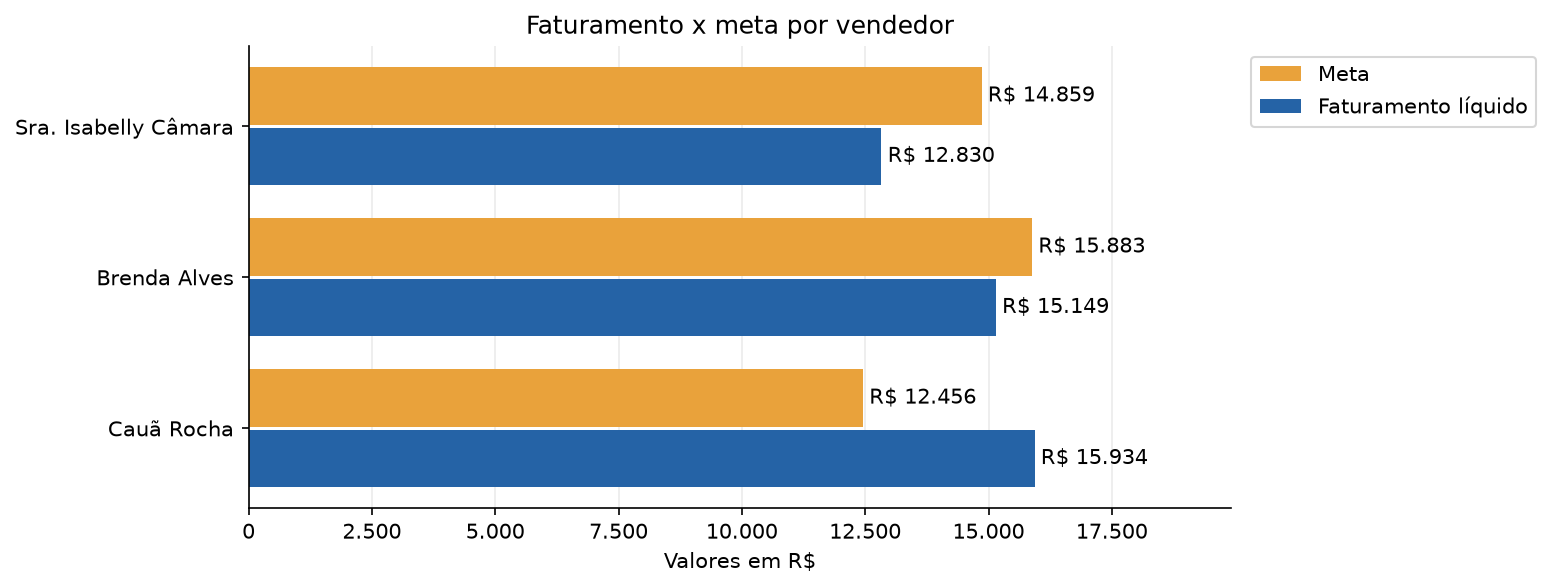
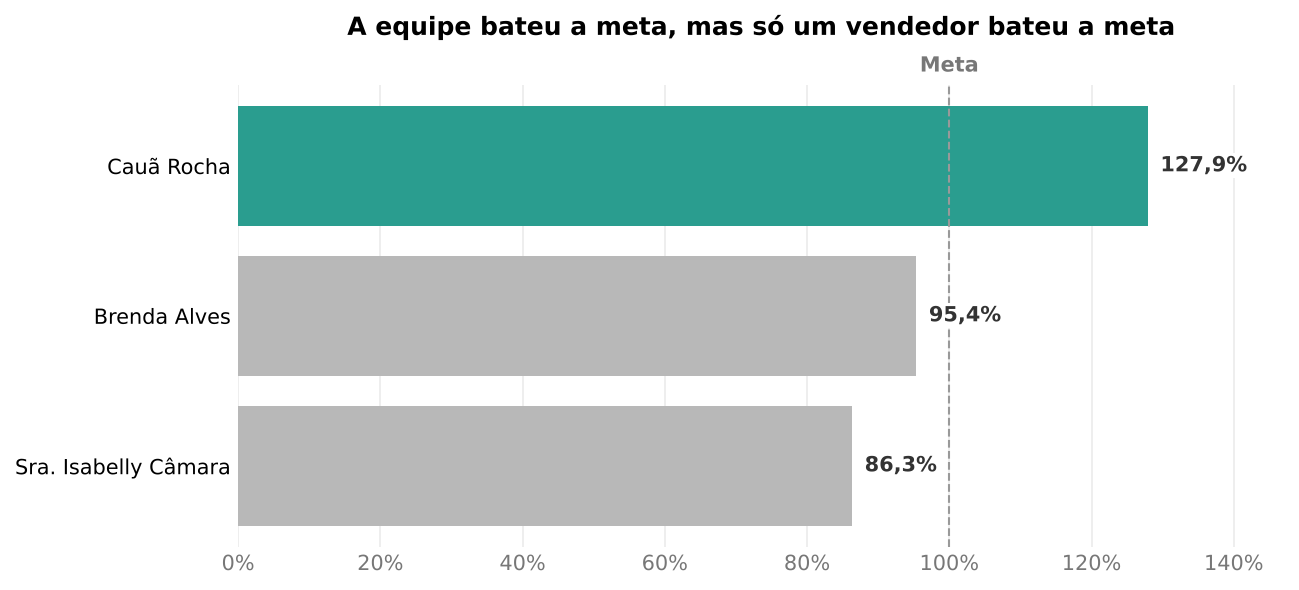
fix: corrigindo gráficos e criando storytelling

diff --git a/src/analises/comercial/ranking_produtos/gerar_grafico.py b/src/analises/comercial/ranking_produtos/gerar_grafico.py
@@ -5,11 +5,15 @@ from typing import cast
 import matplotlib.pyplot as plt
 import polars as pl
 from loguru import logger
-from matplotlib.ticker import FuncFormatter
+from matplotlib.ticker import FuncFormatter, MultipleLocator
 
 
 def formatar_reais(valor: float) -> str:
     return f"R$ {valor:,.0f}".replace(",", ".")
+
+
+def formatar_percentual(valor: float) -> str:
+    return f"{valor:.1%}".replace(".", ",")
 
 
 def grafico_volume_vendas(vendas: pl.DataFrame, caminho: Path, periodo: str) -> None:
@@ -53,22 +57,66 @@ def grafico_produtos_mais_vendidos(
 ) -> None:
     produtos = (
         vendas.group_by("produto")
-        .agg(pl.col("quantidade_vendida").sum())
+        .agg(pl.col("quantidade_vendida", "faturamento_liquido").sum())
+        .with_columns(
+            milesimos=pl.col("faturamento_liquido")
+            / pl.col("faturamento_liquido").sum()
+            * 1000
+        )
+        .with_columns(
+            truncado=pl.col("milesimos").floor(),
+            resto=pl.col("milesimos") - pl.col("milesimos").floor(),
+        )
+        .with_columns(
+            participacao=(
+                pl.col("truncado")
+                + (
+                    pl.col("resto").rank("ordinal", descending=True)
+                    <= 1000 - pl.col("truncado").sum()
+                ).cast(pl.Int64)
+            )
+            / 1000
+        )
         .sort("quantidade_vendida", descending=True)
     )
+    # Destaca os dois produtos que mais pesam no faturamento
+    destaques = produtos.sort("faturamento_liquido", descending=True)["produto"][:2]
     nomes = produtos["produto"].to_list()
+    cores = ["#2A9D8F" if nome in destaques else "#B8B8B8" for nome in nomes]
     quantidades = produtos["quantidade_vendida"].to_list()
+    faturamentos = produtos["faturamento_liquido"].to_list()
+    rotulos_faturamento = [
+        f"{formatar_reais(faturamento)} ({formatar_percentual(participacao)})"
+        for faturamento, participacao in zip(
+            faturamentos, produtos["participacao"], strict=True
+        )
+    ]
 
-    figura, eixo = plt.subplots(figsize=(9, 5))
-    barras = eixo.barh(nomes, quantidades, color="#2A9D8F")
-    eixo.invert_yaxis()
-    eixo.bar_label(barras, padding=4)
-    eixo.set_xlim(0, max(quantidades) * 1.15)
-    eixo.set(title="Produtos mais vendidos", xlabel="Unidades vendidas")
-    eixo.grid(axis="x", alpha=0.25)
-    eixo.set_axisbelow(True)
-    eixo.spines["top"].set_visible(False)
-    eixo.spines["right"].set_visible(False)
+    figura, (eixo_unidades, eixo_faturamento) = plt.subplots(
+        1, 2, figsize=(11, 5), sharey=True
+    )
+    barras = eixo_unidades.barh(nomes, quantidades, color=cores)
+    eixo_unidades.bar_label(barras, padding=4)
+    eixo_unidades.set_xlim(0, max(quantidades) * 1.2)
+    eixo_unidades.set_title("Unidades vendidas", color="#555555", fontweight="bold")
+    barras = eixo_faturamento.barh(nomes, faturamentos, color=cores)
+    eixo_faturamento.bar_label(barras, labels=rotulos_faturamento, padding=4)
+    eixo_faturamento.set_xlim(0, max(faturamentos) * 1.6)
+    eixo_faturamento.set_title(
+        "Faturamento líquido", color="#555555", fontweight="bold"
+    )
+    eixo_unidades.invert_yaxis()
+    for eixo in (eixo_unidades, eixo_faturamento):
+        eixo.xaxis.set_visible(False)
+        eixo.tick_params(length=0)
+        for lado in ("top", "right", "bottom", "left"):
+            eixo.spines[lado].set_visible(False)
+    figura.suptitle(
+        "Lápis lidera em unidades, mas mochila e garrafa fazem 71% do faturamento",
+        fontweight="bold",
+        y=1.04,
+    )
+    figura.text(0.5, 0.97, periodo, ha="center", color="#777777")
 
     figura.savefig(caminho, dpi=150, bbox_inches="tight")
     plt.close(figura)
@@ -77,47 +125,55 @@ def grafico_produtos_mais_vendidos(
 def grafico_faturamento_meta_vendedores(
     vendedores: pl.DataFrame, caminho: Path, periodo: str
 ) -> None:
-    vendedores = vendedores.sort("atingimento_meta")
+    vendedores = vendedores.sort("atingimento_meta", descending=True)
     posicoes = list(range(vendedores.height))
-    metas = vendedores["meta_faturamento_liquido"].to_list()
-    faturamentos = vendedores["faturamento_liquido"].to_list()
+    atingimentos = [atingimento * 100 for atingimento in vendedores["atingimento_meta"]]
+    diferencas = vendedores["diferenca_meta"].to_list()
+    cores = ["#2A9D8F" if diferenca >= 0 else "#B8B8B8" for diferenca in diferencas]
 
-    figura, eixo = plt.subplots(figsize=(10, 4))
-    barras_meta = eixo.barh(
-        [posicao - 0.2 for posicao in posicoes],
-        metas,
-        height=0.38,
-        label="Meta",
-        color="#E9A23B",
-    )
-    barras_faturamento = eixo.barh(
-        [posicao + 0.2 for posicao in posicoes],
-        faturamentos,
-        height=0.38,
-        label="Faturamento líquido",
-        color="#2563A6",
-    )
-    eixo.bar_label(
-        barras_meta, labels=[formatar_reais(valor) for valor in metas], padding=3
-    )
-    eixo.bar_label(
-        barras_faturamento,
-        labels=[formatar_reais(valor) for valor in faturamentos],
-        padding=3,
+    figura, eixo = plt.subplots(figsize=(9, 4))
+    eixo.barh(posicoes, atingimentos, color=cores)
+    # Fundo branco no rótulo para não cruzar com a linha da meta
+    for posicao, atingimento in zip(posicoes, atingimentos, strict=True):
+        eixo.annotate(
+            formatar_percentual(atingimento / 100),
+            (atingimento, posicao),
+            xytext=(6, 0),
+            textcoords="offset points",
+            ha="left",
+            va="center",
+            color="#333333",
+            fontweight="bold",
+            bbox={"facecolor": "white", "edgecolor": "none", "pad": 1},
+        )
+    eixo.axvline(100, color="#999999", linewidth=1, linestyle="--")
+    eixo.annotate(
+        "Meta",
+        (100, 1),
+        xycoords=("data", "axes fraction"),
+        xytext=(0, 4),
+        textcoords="offset points",
+        ha="center",
+        va="bottom",
+        color="#777777",
+        fontweight="bold",
     )
     eixo.set_yticks(posicoes, vendedores["vendedor"].to_list())
     eixo.invert_yaxis()
-    eixo.set_xlim(0, max(metas + faturamentos) * 1.25)
-    eixo.set(title="Faturamento x meta por vendedor", xlabel="Valores em R$")
-    eixo.legend(loc="upper left", bbox_to_anchor=(1.01, 1))
+    eixo.set_xlim(0, max(atingimentos) * 1.15)
+    eixo.xaxis.set_major_locator(MultipleLocator(20))
+    eixo.xaxis.set_major_formatter(FuncFormatter(lambda valor, _: f"{valor:.0f}%"))
+    eixo.tick_params(length=0)
+    eixo.tick_params(axis="x", colors="#777777")
     eixo.grid(axis="x", alpha=0.25)
     eixo.set_axisbelow(True)
-    eixo.spines["top"].set_visible(False)
-    eixo.spines["right"].set_visible(False)
-    eixo.xaxis.set_major_formatter(
-        FuncFormatter(lambda valor, _: f"{valor:,.0f}".replace(",", "."))
+    eixo.set_title(
+        "A equipe bateu a meta, mas só um vendedor bateu a meta",
+        fontweight="bold",
+        pad=24,
     )
-    figura.subplots_adjust(right=0.78)
+    for lado in ("top", "right", "bottom", "left"):
+        eixo.spines[lado].set_visible(False)
 
     figura.savefig(caminho, dpi=150, bbox_inches="tight")
     plt.close(figura)

diff --git a/README.md b/README.md
@@ -6,10 +6,10 @@ Projeto com foco em prática para análise e engenharia de dados.
 
 ## Cases disponíveis
 
-| Prévia | Case |
-|--------|------|
-| <img src="assets/exemplos/funil_comercial/receita-ytd-2026-x-2025.png" width="320" alt="Gráfico de linhas com a receita mensal de 2026 e de 2025"> | **[Funil comercial](src/analises/comercial/funil_comercial/README.md)**<br><br>Simula os negócios de um funil comercial B2B, compara janeiro a setembro de 2026 com 2025 e gera sete gráficos para mostrar onde o comercial perde receita e o que esperar do Q4.<br><br>[Ler o storytelling](src/analises/comercial/funil_comercial/STORYTELLING.md) |
-| <img src="assets/exemplos/ranking_produtos/faturamento_meta_vendedores.png" width="320" alt="Gráfico de barras comparando faturamento líquido e meta por vendedor"> | **[Ranking de produtos](src/analises/comercial/ranking_produtos/README.md)**<br><br>Simula venda semanal, consolida os resultados em uma planilha Excel e gera quatro gráficos para acompanhar vendas, faturamento e metas. |
+| Prévia                                                                                                                                                              | Case                                                                                                                                                                                                                                                                                                                                                 |
+|---------------------------------------------------------------------------------------------------------------------------------------------------------------------|------------------------------------------------------------------------------------------------------------------------------------------------------------------------------------------------------------------------------------------------------------------------------------------------------------------------------------------------------|
+| <img src="assets/exemplos/funil_comercial/receita-ytd-2026-x-2025.png" width="320" alt="Gráfico de linhas com a receita mensal de 2026 e de 2025">                  | **[Funil comercial](src/analises/comercial/funil_comercial/README.md)**<br><br>Simula os negócios de um funil comercial B2B, compara janeiro a setembro de 2026 com 2025 e gera sete gráficos para mostrar onde o comercial perde receita e o que esperar do Q4.<br><br>[Ler o storytelling](src/analises/comercial/funil_comercial/STORYTELLING.md) |
+| <img src="assets/exemplos/ranking_produtos/faturamento_meta_vendedores.png" width="320" alt="Gráfico de barras comparando faturamento líquido e meta por vendedor"> | **[Ranking de produtos](src/analises/comercial/ranking_produtos/README.md)**<br><br>Simula venda semanal, consolida os resultados em uma planilha Excel e gera quatro gráficos para acompanhar vendas, faturamento e metas.<br><br>[Ler o storytelling](src/analises/comercial/ranking_produtos/STORYTELLING.md)                                     |
 
 ## Contribuição
 

diff --git a/src/analises/comercial/ranking_produtos/STORYTELLING.md b/src/analises/comercial/ranking_produtos/STORYTELLING.md
@@ -1,0 +1,45 @@
+    # Storytelling do Ranking de Produtos
+
+> Os dados utilizados foram gerados com Faker e NÃO são reais!
+
+## Cenário
+
+Fechamento semanal: o gestor confere vendas, metas e produtos de 20/09 a 26/09/2026.
+
+Os exemplos abaixo mostram os gráficos gerados pela automação para o período analisado.
+
+## Volume estável ao longo da semana
+
+![Gráfico de linha com o volume diário de vendas](../../../../assets/exemplos/ranking_produtos/volume_vendas.png)
+
+Mostra a quantidade total de unidades vendidas em cada dia, facilitando a comparação do movimento ao longo da semana.
+
+Foram 1.841 unidades na semana, entre 240 e 278 por dia. Não houve dia fora do padrão.
+
+## Lápis lidera em unidades, mas mochila e garrafa fazem 71% do faturamento
+
+![Gráfico de barras horizontais com unidades vendidas e faturamento líquido por produto](../../../../assets/exemplos/ranking_produtos/produtos_mais_vendidos.png)
+
+Compara, lado a lado, as unidades vendidas e o faturamento líquido de cada produto. Mostra que volume alto não significa
+receita alta.
+
+O lápis vende mais unidades (263), mas responde por 1,4% do faturamento. Mochila escolar e Garrafa térmica somam 71%
+(R\$ 31.363) e são os produtos que mais pesam no resultado.
+
+## A equipe bateu a meta, mas só um vendedor bateu a meta
+
+![Gráfico de barras com o percentual da meta atingido por vendedor e uma linha de referência em 100%](../../../../assets/exemplos/ranking_produtos/faturamento_meta_vendedores.png)
+
+Compara, em reais, o faturamento líquido de cada vendedor com sua meta. Ajuda a ver quem atingiu ou ficou abaixo da meta.
+
+Cauã Rocha atingiu 127,9% da meta (R\$ 15.934 contra R\$ 12.456). Brenda Alves ficou em 95,4% (R\$ 735 abaixo) e
+Sra. Isabelly Câmara em 86,3% (R\$ 2.029 abaixo).
+
+## Mochila e garrafa concentram 94% da meta perdida
+
+![Gráfico de barras com a diferença, em reais, entre faturamento líquido e meta de cada produto](../../../../assets/exemplos/ranking_produtos/faturamento_meta_produtos.png)
+
+Apresenta quanto cada produto ficou acima ou abaixo da meta de faturamento, em reais.
+
+Quatro produtos ficaram, juntos, R\$ 3.305 abaixo da meta. Mochila escolar e Garrafa térmica respondem por 94% desse
+valor e são os que pedem atenção.

diff --git a/src/analises/comercial/ranking_produtos/README.md b/src/analises/comercial/ranking_produtos/README.md
@@ -35,8 +35,8 @@ Planilhas de períodos anteriores em `dados/` não entram no resumo.
 | Arquivo                           | Análise                                                     |
 |-----------------------------------|-------------------------------------------------------------|
 | `volume_vendas.png`               | Evolução diária das unidades vendidas.                      |
-| `produtos_mais_vendidos.png`      | Ranking de produtos por unidades vendidas.                  |
-| `faturamento_meta_vendedores.png` | Faturamento líquido e meta de cada vendedor, em reais.      |
+| `produtos_mais_vendidos.png`      | Unidades e participação no faturamento por produto.         |
+| `faturamento_meta_vendedores.png` | % da meta atingido por vendedor.                            |
 | `faturamento_meta_produtos.png`   | Diferença entre faturamento líquido e meta por produto.     |
 
 Nos rótulos do gráfico de produtos, os valores em reais aparecem arredondados.
